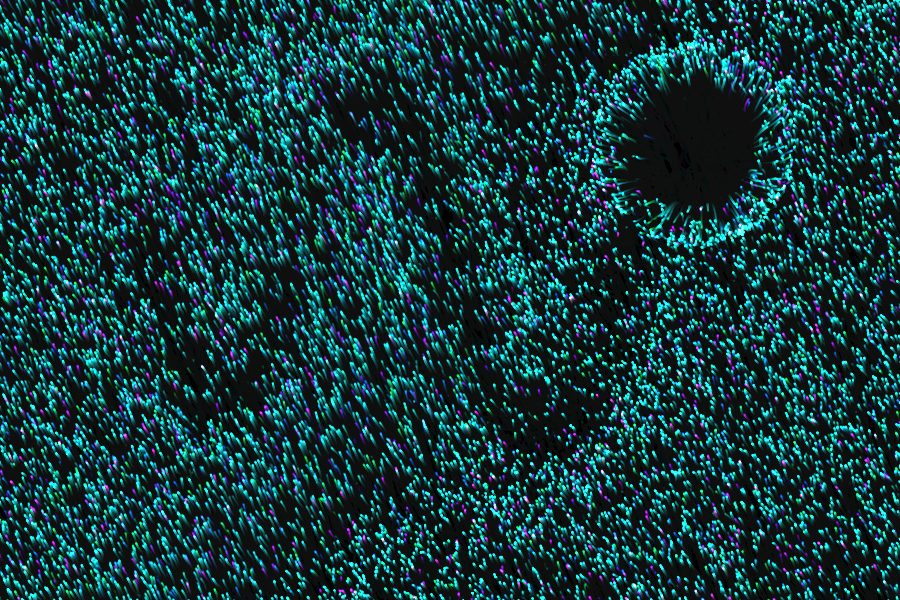
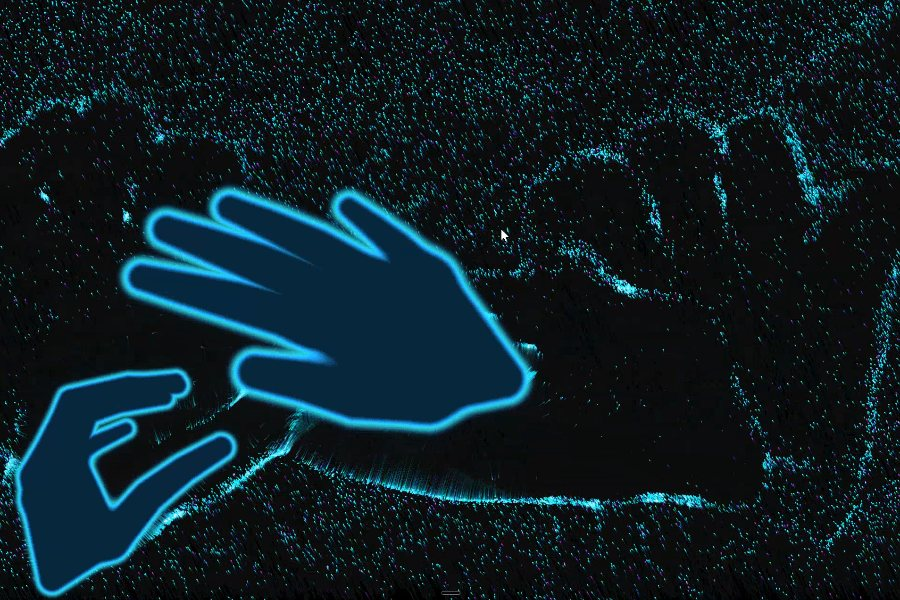
Bioluminescent Flow gets its own still; drop the hand-count labels
The algae tile is now a frame from the screen recording — two hands glowing in
the field with the algae swept into wakes behind them. My own capture was
prettier as an abstract but said nothing about what your hands do in it.

"both hands", "one finger" and the rest are gone. The pictures already show
someone using their hands; saying it again underneath was noise.

Claude-Session: https://claude.ai/code/session_01SYC8yppmwTCxQyTWeUJkna

diff --git a/index.html b/index.html
@@ -73,19 +73,15 @@
     filter: brightness(1.12);
     transition-duration: var(--hover-on);
   }
-  .piece figcaption,
   .piece .cap {
+    display: block;
     margin-top: 0.6rem;
-    display: flex;
-    align-items: baseline;
-    justify-content: space-between;
-    gap: 1rem;
+    font-size: 0.95rem;
+    font-weight: 600;
   }
-  .name { font-size: 0.95rem; font-weight: 600; }
   /* a portrait piece in a landscape tile: crop from nearer the top, where
      the drawn figure is, rather than the middle */
   .piece img.tall { object-position: center 22%; }
-  .how { font-size: 0.75rem; color: var(--ink-3); white-space: nowrap; }
 
   footer {
     margin-top: 4rem;
@@ -119,32 +115,32 @@
 
     <a class="piece" href="cloth/">
       <img src="thumbs/cloth.jpg" width="900" height="600" alt="A mint sheet of cloth hanging in the dark, folded by unseen fingertips">
-      <span class="cap"><span class="name">Cloth</span><span class="how">both hands</span></span>
+      <span class="cap">Cloth</span>
     </a>
 
     <a class="piece" href="portal/">
       <img src="thumbs/portal.jpg" width="900" height="600" alt="A dark window held open over a pink room, with lit fireflies drifting inside it">
-      <span class="cap"><span class="name">Portal</span><span class="how">both hands</span></span>
+      <span class="cap">Portal</span>
     </a>
 
     <a class="piece" href="particles/">
-      <img src="thumbs/particles.jpg" width="900" height="600" alt="Thousands of cyan algae with a dark hand-shaped void swept through them">
-      <span class="cap"><span class="name">Bioluminescent Flow</span><span class="how">one hand</span></span>
+      <img src="thumbs/particles.jpg" width="900" height="600" alt="Two glowing blue hand silhouettes in a field of cyan algae, the algae swept into wakes around them">
+      <span class="cap">Bioluminescent Flow</span>
     </a>
 
     <a class="piece" href="webcam/">
       <img src="thumbs/webcam.jpg" width="900" height="600" loading="lazy" alt="Divya in the pixel mirror, her face and raised hand rebuilt in hot orange and deep blue">
-      <span class="cap"><span class="name">Webcam Magic</span><span class="how">one finger</span></span>
+      <span class="cap">Webcam Magic</span>
     </a>
 
     <a class="piece" href="emotion/">
       <img src="thumbs/emotion.jpg" width="900" height="600" loading="lazy" alt="A pink chrysanthemum in full bloom against near-black">
-      <span class="cap"><span class="name">(e)motion</span><span class="how">one hand</span></span>
+      <span class="cap">(e)motion</span>
     </a>
 
     <a class="piece" href="lenticular/">
       <img class="tall" src="thumbs/lenticular.jpg" width="414" height="638" loading="lazy" alt="A photograph of a Seoul rooftop with a drawn figure sitting on it, emerging in stripes">
-      <span class="cap"><span class="name">(un)seen Lenticular</span><span class="how">mouse</span></span>
+      <span class="cap">(un)seen Lenticular</span>
     </a>
 
   </div>
